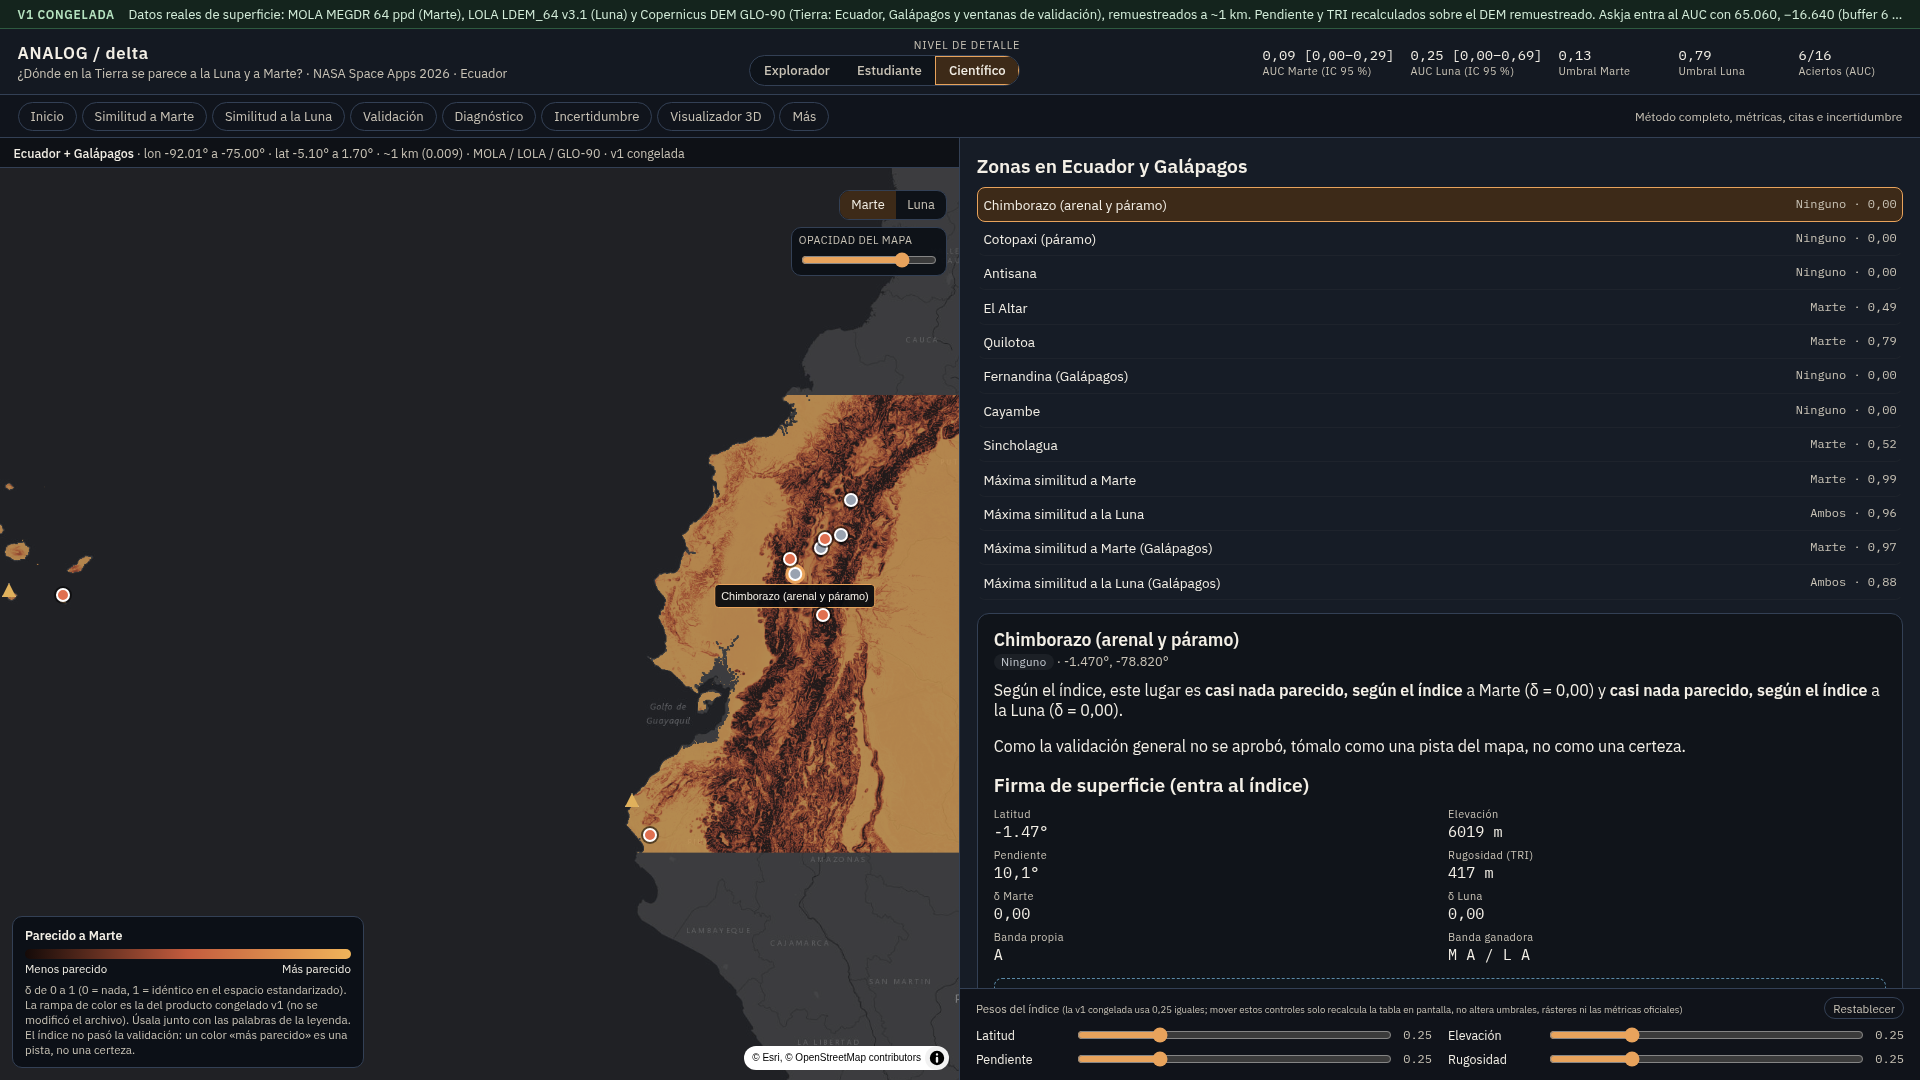
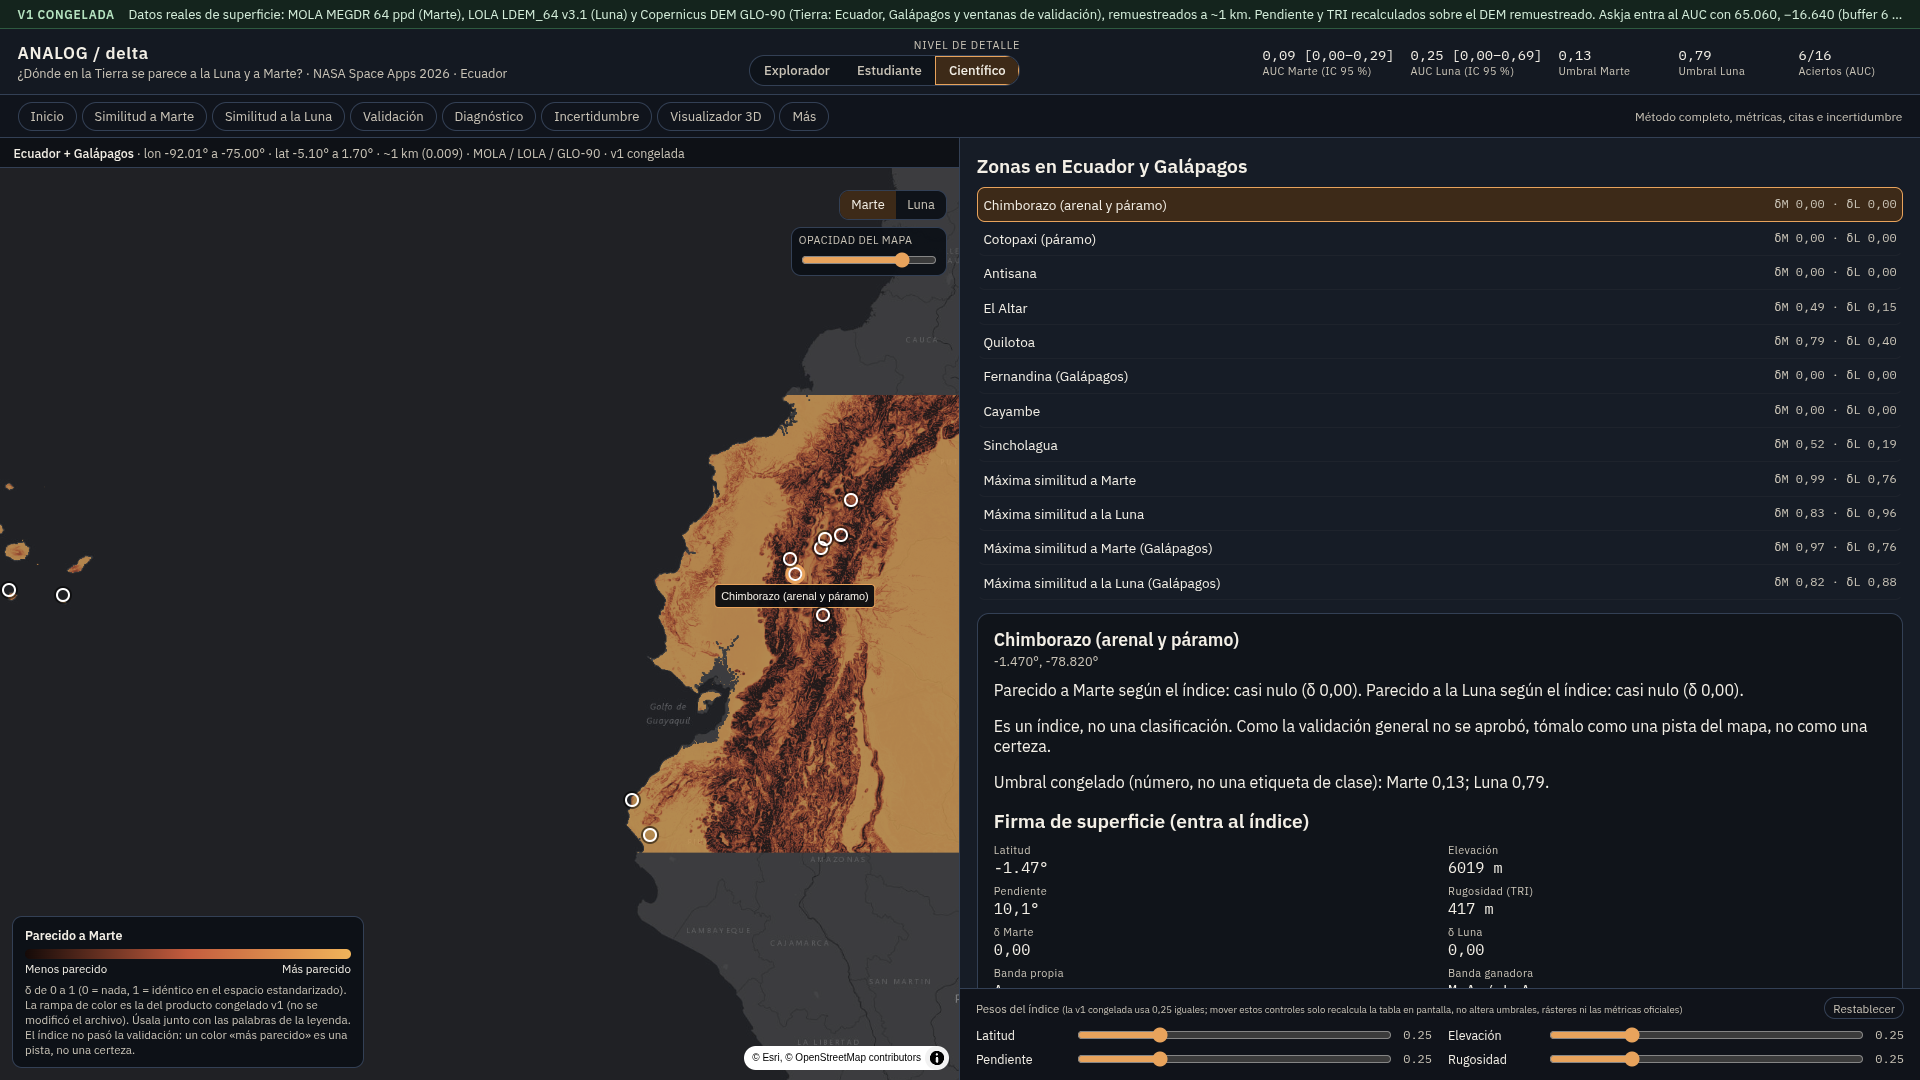
Quita las etiquetas de clase de la lista de zonas y de las fichas.
En su lugar muestra el parecido en palabras y el valor de δ. La captura 06 se tomó de nuevo a 1920×1080, en el nivel científico.

diff --git a/web/src/main.ts b/web/src/main.ts
@@ -12,6 +12,7 @@ import {
   diagnosisHTML,
   fmt,
   fraseDelta,
+  fraseParecido,
   futureWorkHTML,
   homeHTML,
   sitioCardHTML,
@@ -24,7 +25,6 @@ import { defTermino, GLOSARIO } from "./glossary";
 import { createEcuadorMap, escapeHtml, nearestZone, setMarkers, setOverlay, setOverlayOpacity } from "./maps";
 import { recomputeValidation } from "./scoring";
 import {
-  CLASS_LABELS,
   DEFAULT_WEIGHTS,
   NIVELES,
   VAR_LABELS,
@@ -107,13 +107,13 @@ function metricsStrip(cat: Catalogo, nivel: Nivel): string {
 
 function legendHTML(vista: Vista, nivel: Nivel): string {
   if (vista === "clases") {
-    return `<div class="title">Clases de homología de superficie</div>
-      <div class="warn-box">El umbral de Marte tiene <strong>especificidad 0</strong>. Este mapa no es un inventario fiable. Prefiera los mapas continuos.</div>
-      <div><span class="swatch swatch-marte"></span>Marte</div>
-      <div><span class="swatch swatch-luna"></span>Luna</div>
-      <div><span class="swatch swatch-ambos"></span>Ambos</div>
-      <div><span class="swatch swatch-ninguno"></span>Ninguno</div>
-      <p class="note">Los colores de este ráster son los del producto congelado v1; no se alteró la paleta de los archivos oficiales.</p>`;
+    return `<div class="title">Vista secundaria del umbral congelado</div>
+      <div class="warn-box">El umbral de Marte (0,13) tiene <strong>especificidad 0</strong>. Estos colores no son un inventario de análogos ni una clasificación. Prefiera los mapas continuos de δ.</div>
+      <div><span class="swatch swatch-marte"></span>δ Marte ≥ 0,13 y δ Luna &lt; 0,79</div>
+      <div><span class="swatch swatch-luna"></span>δ Luna ≥ 0,79 y δ Marte &lt; 0,13</div>
+      <div><span class="swatch swatch-ambos"></span>supera ambos umbrales</div>
+      <div><span class="swatch swatch-ninguno"></span>no supera ninguno</div>
+      <p class="note">Los colores son los del ráster congelado v1; no se alteró el archivo. Es un recorte por umbral, no una etiqueta definitiva.</p>`;
   }
   if (vista === "clima") {
     return `<div class="title">Clima</div>
@@ -331,9 +331,9 @@ async function main(): Promise<void> {
     }
     pop.innerHTML = `<button type="button" class="cerrar" aria-label="Cerrar ficha">×</button>
       <h3>${escapeHtml(z.nombre)}</h3>
-      <p>Marte: <strong>${fraseDelta(z.delta_marte)}</strong>${state.nivel === "explorador" ? "" : ` (δ = ${fmt(z.delta_marte, 2)})`}.</p>
-      <p>Luna: <strong>${fraseDelta(z.delta_luna)}</strong>${state.nivel === "explorador" ? "" : ` (δ = ${fmt(z.delta_luna, 2)})`}.</p>
-      <p class="muted">Como la prueba general no se aprobó, esto es una pista, no una certeza.</p>
+      <p>${escapeHtml(fraseParecido("Marte", z.delta_marte, state.nivel !== "explorador"))}.</p>
+      <p>${escapeHtml(fraseParecido("la Luna", z.delta_luna, state.nivel !== "explorador"))}.</p>
+      <p class="muted">Es un índice, no una clasificación. Como la prueba general no se aprobó, esto es una pista, no una certeza.</p>
       <button type="button" class="btn" data-abrir-ficha="${z.id}">Ver ficha completa</button>`;
     pop.hidden = false;
     const col = document.querySelector(".map-col") as HTMLElement;
@@ -435,7 +435,7 @@ async function main(): Promise<void> {
       const list = cat.zonas_prioritarias
         .map(
           (z) =>
-            `<li><button type="button" data-zona="${z.id}" class="${z.id === zona.id ? "is-selected" : ""}">${escapeHtml(z.nombre)}<span class="sc">${escapeHtml(CLASS_LABELS[z.clase] ?? z.clase)} · ${fmt(Math.max(z.delta_marte, z.delta_luna), 2)}</span></button></li>`,
+            `<li><button type="button" data-zona="${z.id}" class="${z.id === zona.id ? "is-selected" : ""}">${escapeHtml(z.nombre)}<span class="sc">${state.nivel === "explorador" ? escapeHtml(fraseParecido("Marte", z.delta_marte, false)) : `δM ${fmt(z.delta_marte, 2)} · δL ${fmt(z.delta_luna, 2)}`}</span></button></li>`,
         )
         .join("");
       body.innerHTML = `<h2>Zonas en Ecuador y Galápagos</h2><ul class="zona-list">${list}</ul>${cardHTML(zona, state.nivel)}`;

diff --git a/web/src/maps.ts b/web/src/maps.ts
@@ -86,7 +86,7 @@ export function setMarkers(
   for (const z of zonas) {
     const el = document.createElement("button");
     el.type = "button";
-    el.className = `map-pin map-pin-${z.clase}${z.id === selectedId ? " is-selected" : ""}`;
+    el.className = `map-pin${z.id === selectedId ? " is-selected" : ""}`;
     el.dataset.zoneId = z.id;
     el.setAttribute("aria-label", `${z.nombre}, similitud a Marte ${z.delta_marte.toFixed(2)}, a la Luna ${z.delta_luna.toFixed(2)}`);
     el.innerHTML = `<span class="pin-dot" aria-hidden="true"></span><span class="pin-label">${escapeHtml(z.nombre)}</span>`;
